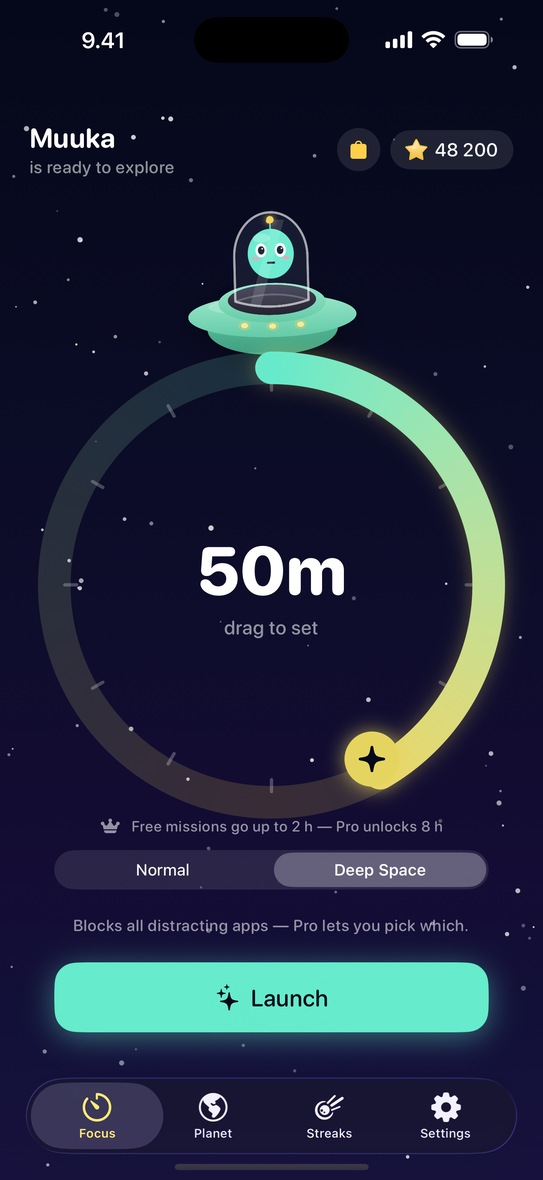
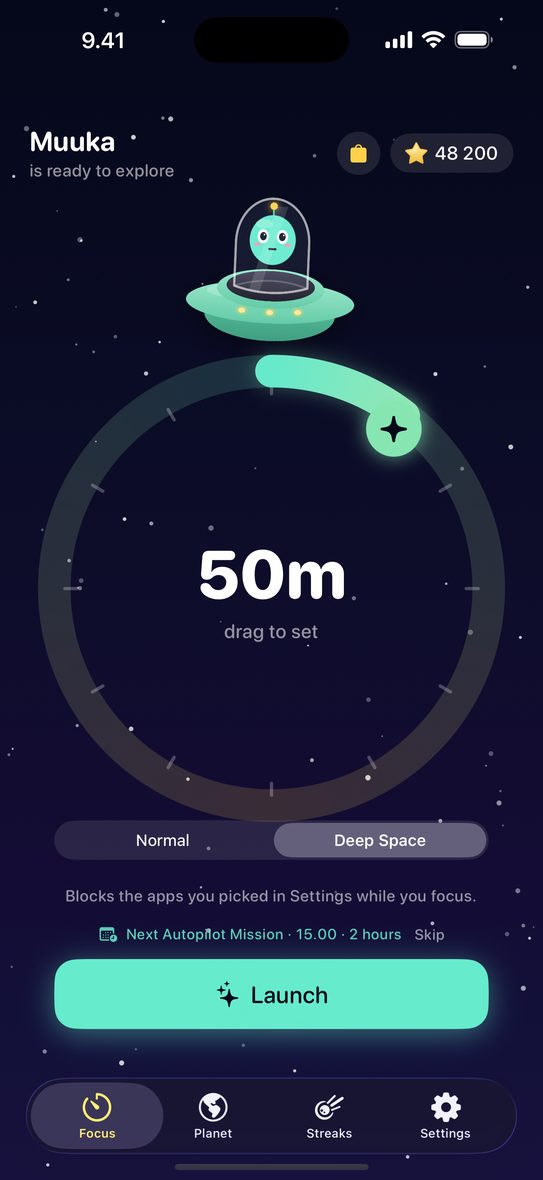
Gallery: the shop card with Autopilot Missions, and the Autopilot list itself
shot-07 and shot-03 regenerated from the reshot raws; shot-12 is new.

diff --git a/_apps/muuka/index.md b/_apps/muuka/index.md
@@ -51,9 +51,11 @@ screenshots:
   - src: /assets/apps/muuka/shot-06.jpg
     alt: "The galaxy view with several planets"
   - src: /assets/apps/muuka/shot-07.jpg
-    alt: "The cosmic shop"
+    alt: "The cosmic shop, with the MUUKA Pro card"
   - src: /assets/apps/muuka/shot-03.jpg
-    alt: "Deep Space app blocking"
+    alt: "Deep Space app blocking, with the next Autopilot Mission lined up"
+  - src: /assets/apps/muuka/shot-12.jpg
+    alt: "The Autopilot Missions list: three plans on a timetable"
 
 features:
   - icon: "🛸"
